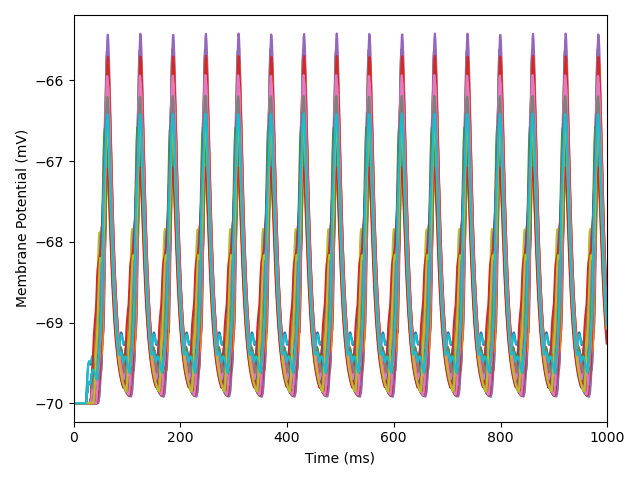
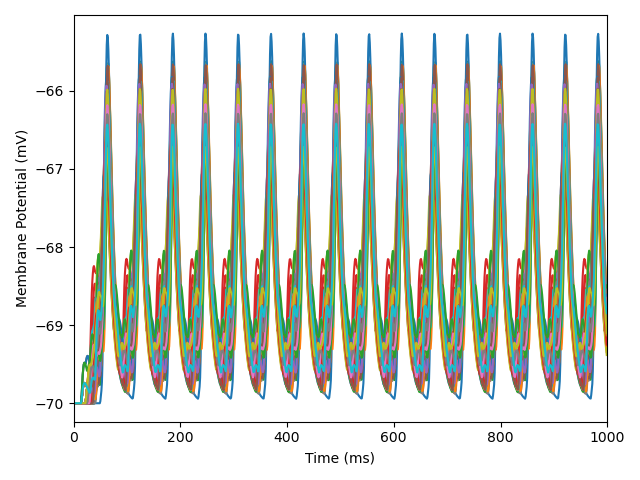
add tutodoc 2

Changed region(s): [[0.0625, 0.0625, 0.9688, 0.8438], [0.0625, 0.3125, 0.0938, 0.375], [0.0625, 0.1562, 0.0938, 0.2188]]

diff --git a/neuronpopulation/populationsetting.py b/neuronpopulation/populationsetting.py
@@ -15,6 +15,9 @@ edict = {"I_e": 200.0, "tau_m": 20.0} # Parameter default value dictionary setti
 nest.CopyModel("iaf_psc_alpha", "exc_iaf_psc_alpha") # "exc_iaf_psc_alpha" is a new customized model forked from iaf_psc_alpha, a predefined, built-in model in NEST.
 nest.SetDefaults("exc_iaf_psc_alpha", edict) # And then set default values for the customized model
 
+idict = {"I_e": 300.0} # Parameter default value dictionary setting
+nest.CopyModel("iaf_psc_alpha", "inh_iaf_psc_alpha", params=idict) # Fork and set default in one line
+
 epop1 = nest.Create("exc_iaf_psc_alpha", 100)
 epop2 = nest.Create("exc_iaf_psc_alpha", 100)
 ipop1 = nest.Create("inh_iaf_psc_alpha", 30)
@@ -31,7 +34,9 @@ Vth=-55. # fixed threshold
 Vrest=-70. # fixed resting potential
 dVms =  {"V_m": [Vrest+(Vth-Vrest)*numpy.random.rand() for x in range(len(epop1))]} # randomize initial membrane potential
 epop1.set(dVms) # set the membrane potential values for each neuron in epop1
-# the former two lines are equivalent to: epop1.set({"V_m": Vrest + nest.random.uniform(0.0, Vth-Vrest)})
+epop2.set({"V_m": Vrest + nest.random.uniform(0.0, Vth-Vrest)})
+ipop1.set({"V_m": Vrest + nest.random.uniform(0.0, Vth-Vrest)})
+ipop2.set({"V_m": Vrest + nest.random.uniform(0.0, Vth-Vrest)})
 
 
 ### 2. Connection setting
@@ -49,3 +54,63 @@ nest.Connect(epop1, ipop1, conn_dict_ex, syn_dict_ex)
 # note that the population number n of epops and ipops are different
 # therefore the number of all possible connection between the nodes is 100 * 30 = 3000
 nest.Connect(ipop1, epop1, conn_dict_in, syn_dict_in)
+# epop1 and ipop1 are being pre and post to each other simultaneously.
+# this is legitimate for every conenctivity rule in NEST.
+
+nest.Connect(epop1, epop2, conn_dict_ex, syn_dict_ex)
+nest.Connect(ipop2, epop2, conn_dict_in, syn_dict_in)
+
+
+### 3. Device setting
+#pg = nest.Create("poisson_generator")
+#pg.set({"start": 100.0, "stop": 150.0})
+
+#recdict = {"record_to" : "ascii", "label" : "epop2_mp"}
+mm1 = nest.Create("multimeter", 100) #params=recdict)
+mm1.set({"record_from":["V_m"]})
+
+nest.Connect(mm1, epop2, "one_to_one")
+
+nest.Simulate(1000.0)
+
+res = mm1.get()
+
+sendernum = []
+tss = []
+vmss = []
+
+for i in range(0, 100):
+    sendernum.append(i)
+    tss.append(res["events"][i]["times"])
+    vmss.append(res["events"][i]["V_m"])
+
+
+
+garo = 2
+sero = 5
+for j in range(0, garo*sero):
+    plt.subplot(sero, garo, j+1)
+    plt.plot(tss[j], vmss[j], c = 'r')
+    plt.xlim([0,1000])
+    plt.xlabel("Time (ms)")
+    plt.title("Epop 2 node "+str(j+1))
+    if(j == round((garo*sero)/2)-1): plt.ylabel("Membrane Potential (mV)")
+    
+
+plt.tight_layout()
+plt.show()
+plt.savefig('onetoten_epop.png')
+
+
+    
+plt.figure()
+for k in range(0, 100):
+    plt.plot(tss[k], vmss[k])
+    plt.xlim([0,1000])
+    plt.xlabel("Time (ms)")
+    #if(j == round((garo*sero)/2)-1): plt.ylabel("Membrane Potential (mV)")
+    plt.ylabel("Membrane Potential (mV)")
+
+plt.tight_layout()
+plt.show()
+plt.savefig('all_epop.png')

diff --git a/tutorial_doc/number2.md b/tutorial_doc/number2.md
@@ -107,6 +107,8 @@
     # note that the population number n of epops and ipops are different
     # therefore the number of all possible connection between the nodes is 100 * 30 = 3000
     nest.Connect(ipop1, epop1, conn_dict_in, syn_dict_in)
+    # epop1 and ipop1 are being pre and post to each other simultaneously.
+    # this is legitimate for every conenctivity rule in NEST.
     ```
     - 여기서 indegree는 postsynaptic neuron으로 향하는 conneciton의 총 개수를 의미한다. 즉, fixed_indegree는 randomized된 전체 connection 중에서도 postsynaptic neuron으로 향하는 conenction 수를 제한한다는 뜻이 된다.
     - 반대로 outdegree는 presynaptic neuron에서 나오는 connection의 총 개수를 의미한다.
@@ -115,17 +117,45 @@
   - ~~세 개 차이가 구체적으로 뭔지는 공부 좀 더 해야겄다... 어차피 방향이 항상 pre → post면 결국 같지 않나???~~
 
 - pairwise_bernoulli 분포를 선택하면, 노드 사이에 가능한 모든 연결 중에서, 확률 p에 따라 몇몇 연결만을 선택한다.
-  - 참조: 베르누이 분포는 p의 확률로 1 이고 1-p의 확률로 0인 확률변수의 분포로, 가능한 모든 연결의 개수(n&#42;m)가 충분히 많을 때 실제로 작동하는 연결의 수는 
+  - 참조: 베르누이 분포는 p의 확률로 1 이고 1-p의 확률로 0인 확률변수의 분포로, 가능한 모든 연결의 개수(n&#42;m)가 충분히 많을 때 실제로 작동하는 연결의 수의 기댓값은 n&#42;m&#42;p개이다.
+
+- conn_spec의 인자로 connectivity pattern을 지정하는 것 이외에도 self-connection이나 두 뉴런 간 중복 연결에 대한 설정을 바꿀 수 있다.
+  - 식별자 dictionary에서, key "allow_autapses"(자기 연결)와 "allow_multapses"(중복 연결)에 대해 value로 False 혹은 True의 boolean value를 지정하면 된다.
+
+- 마지막으로, 모든 connectivity rule에 대해 한 군집 노드가 pre와 post의 역할을 동시에 수행하는 것이 가능하다.
 
 
 
+### Device의 행동 지정하기
+- 모든 device는 기본적인 timing capacity를 가지고 있다.
+  - 모든 시각은 origin(기본값 0)에 대해 상대적이다.
+  - start (기본값 0)은 device가 행동을 시작하는 시각을 정의한다.
+  - stop (기본값 ∞, 즉 시뮬레이션이 끝날 때까지)은 device가 행동을 끝내는 시각을 정의한다.
+  - 예: 100 ms부터 150 ms까지만 작동하는 [포아송 생성기](https://nest-simulator.readthedocs.io/en/stable/models/poisson_generator.html)
+    ```python
+    pg = nest.Create("poisson_generator")
+    pg.set({"start": 100.0, "stop": 150.0})
+    ```
+- 또한, 측정 device가 내놓는 result에 포함된 값 중 "events"를 추출하여 파일에 저장할 수 있다.
+  - 측정이 길고 측정 대산 노드의 규모가 클수록, 파일에 따로 저장하는 편이 좋다.
+  - 모든 측정 device는 data를 어디에 어떤 형식으로 저장할지에 대한 파라미터(record_to)를 받을 수 있다.
+    - "ascii"는 측정 데이터를 파일로 dump한다.
+    - "screen"은 측정 데이터를 화면에 띄운다.
+    - "memory"는 측정 데이터를 메모리에 hold한다. (모든 측정 device에서 기본값)
+  - 또한 이 데이터에 대한 label을 지정할 수 있는데, 따로 지정하지 않는다면 NEST에 의해 생성되는 기본값은 device id이다.
+    - 만약 simulation이 다중 스레드 및 프로세스에서 진행되고 있다면, 각각의 스레드와 프로세스에 대해 파일이 하나씩 생성된다.
+  - [측정 device에 대한 더 많은 내용은 이곳을 참조](https://nest-simulator.readthedocs.io/en/stable/devices/record_from_simulations.html#record-simulations)
+
+
+여기까지 [전체 코드](https://github.com/froggo-roggo/froggo-nest-study/blob/main/neuronpopulation/populationsetting.py)
+
+
+### 시뮬레이션 reset하기
+- 만족할 만한 결과를 얻을 때까지 시뮬레이션을 반복해야 하는 경우, ResetKernel() 함수를 사용하면 한 프로세스 내에서 만든 모든 node와 customized model을 제거하고, internal clock을 0으로 초기화한다.
+- 서로 다른 parameter setting으로 같은 simulation을 여러 번 반복할 때는, 모든 것을 reset할 필요 없이 그냥 반복문을 사용하고 반복마다 parameter setting만 update되도록 하는 것으로도 충분하다.
 
 
 
+### Command overview
 
 
-
-
-
-
-- 여기까지 [전체 코드](https://github.com/froggo-roggo/froggo-nest-study/blob/main/neuronpopulation/populationsetting.py)
